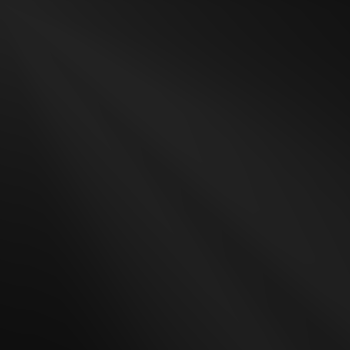
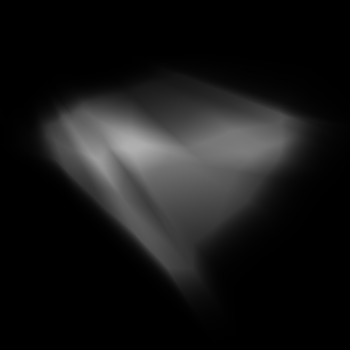
progress

diff --git a/dnn_image.py b/dnn_image.py
@@ -11,6 +11,8 @@ from keras.layers import Activation
 from keras.layers import Dropout
 from keras.optimizers import SGD
 
+np.random.seed(0)
+
 ''' Preprocessing image '''
 
 filename = sys.argv[1]
@@ -19,45 +21,44 @@ img = Image.open(filename)
 width, height = img.size
 pixel_values = np.array(img)
 
-X = np.array([[r, c] for r in range(width) for c in range(height)]) * 0.1
-y = pixel_values.reshape(width*height, 1).astype('float32') / 255.
+X = np.array([[r, c] for r in range(height) for c in range(width)]) * 0.01
+Y = pixel_values.reshape(width*height, 3).astype('float32') / 255.
 
 print 'Sample input shape: %s'  % str(X.shape)
-print 'Sample output shape: %s' % str(y.shape)
+print 'Sample output shape: %s' % str(Y.shape)
 
 ''' Multilayer Perceptron (MLP) '''
 
 num_hidden_layers = 8
-num_hidden_neurons = 16
+num_hidden_neurons = 32
 
-batch_size = 50
-nb_epoch = 20
+batch_size = 200
+nb_epoch = 30
 
 model = Sequential()
 model.add(Dense(num_hidden_neurons, input_dim=2))
-model.add(Activation('relu'))
-model.add(Dropout(0.2))
+model.add(Activation('tanh'))
 for i in range(num_hidden_layers - 1):
     model.add(Dense(num_hidden_neurons))
-    model.add(Activation('relu'))
-    model.add(Dropout(0.2))
-model.add(Dense(1))
+    model.add(Activation('tanh'))
+model.add(Dense(3))
 model.add(Activation('sigmoid'))
 
 model.summary()
 
-sgd = SGD(lr=0.01, momentum=0.9, decay=0.0, nesterov=False)
+sgd = SGD(lr=0.008, momentum=0.9, decay=0.0, nesterov=False)
 model.compile(loss='mean_squared_error', optimizer=sgd, metrics=['accuracy'])
-model.fit(X, y, batch_size=batch_size, nb_epoch=nb_epoch, 
-          verbose=1, validation_data=(X, y))
+model.fit(X, Y, batch_size=batch_size, nb_epoch=nb_epoch, 
+          verbose=1, validation_data=(X, Y))
 
-score = model.evaluate(X, y, verbose=0)
+score = model.evaluate(X, Y, verbose=0)
 
 print 'Test score: %f' % score[0]
 print 'Test accuracy: %f' % score[1]
 
 ''' Reproducing image '''
 
-outputs = model.predict(X, batch_size=batch_size).reshape(width, height)
+outputs = model.predict(X, batch_size=batch_size).reshape(height, width, 3)
 repr_img = Image.fromarray((outputs * 255.).astype(np.uint8))
 repr_img.save(filename+'_reproduced.png')
+
